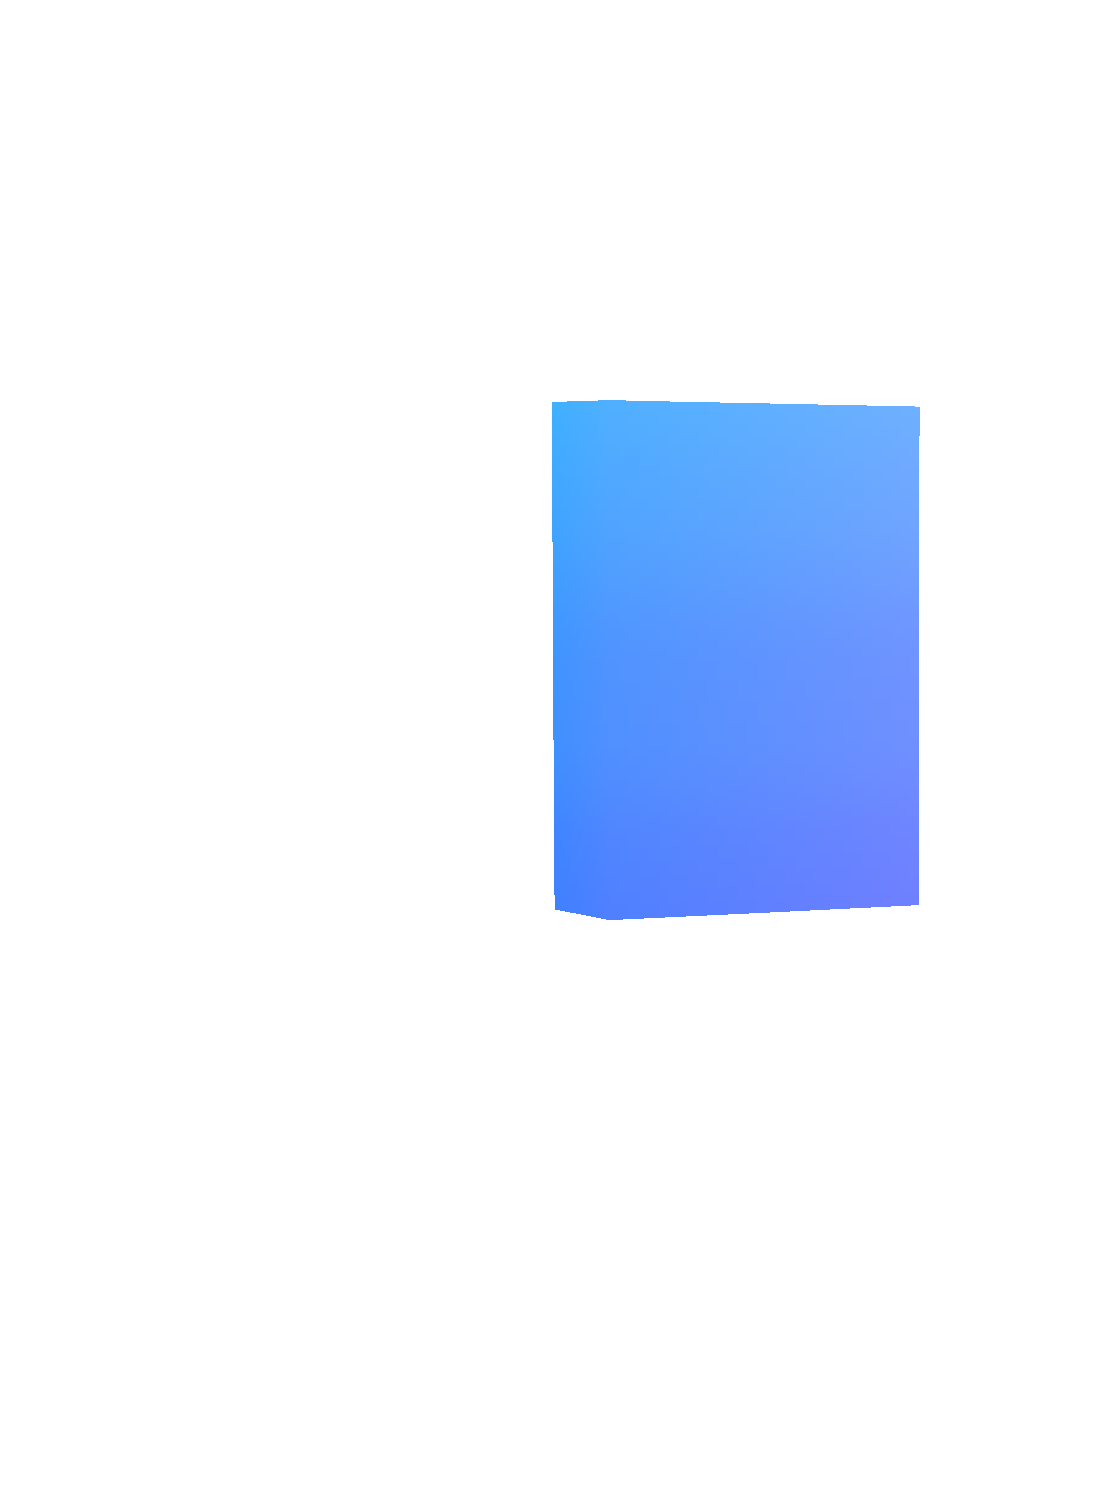
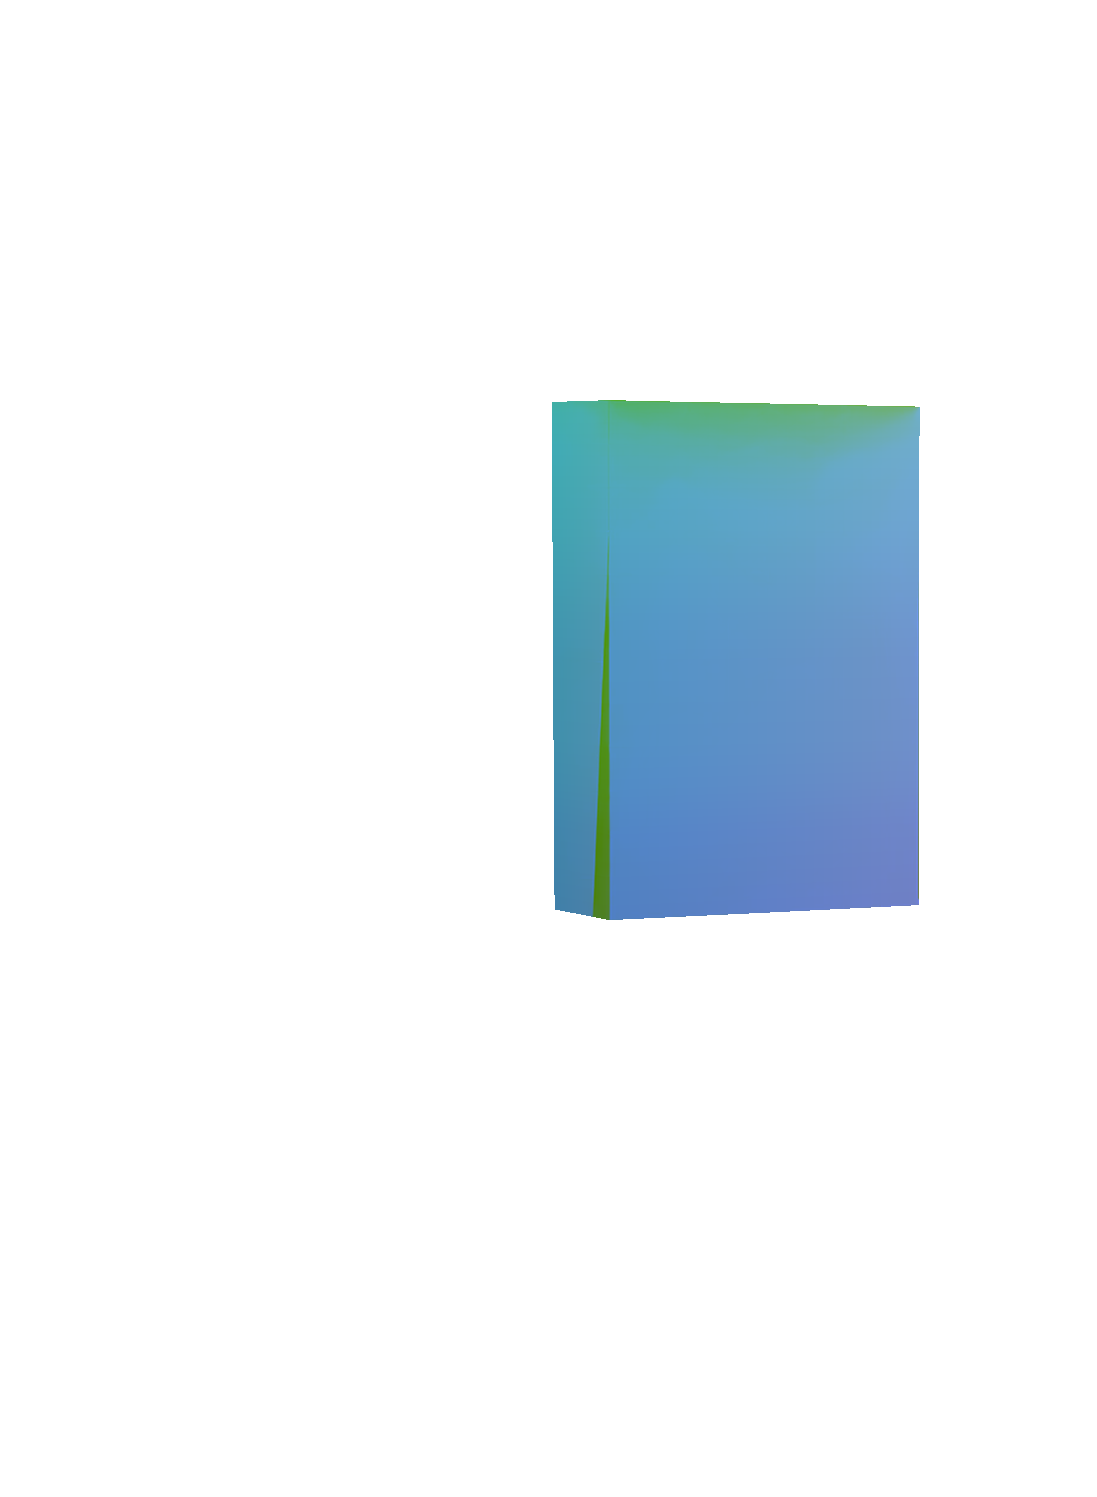
pack lighting into uv textures to improve loading times

Changed region(s): [[0.4959, 0.2458, 0.8368, 0.6146]]

diff --git a/src/lib.rs b/src/lib.rs
@@ -10,16 +10,6 @@ pub mod modern_skin;
 
 /// Creates a Smash Ultimate Minecraft Steve inspired render from the given Minecraft skin texture.
 pub fn create_render(skin_texture: &RgbaImage) -> RgbaImage {
-    let load_rgba_u8 = |buffer| image::load_from_memory(buffer).unwrap().into_rgba();
-
-    let lighting = load_rgba_u8(include_bytes!("../images/lighting/lighting.png"));
-    let lighting_leg_l2 = load_rgba_u8(include_bytes!("../images/lighting/lighting_leg_l2.png"));
-    let lighting_leg_r2 = load_rgba_u8(include_bytes!("../images/lighting/lighting_leg_r2.png"));
-    let lighting_arm_l2 = load_rgba_u8(include_bytes!("../images/lighting/lighting_arm_l2.png"));
-    let lighting_arm_r2 = load_rgba_u8(include_bytes!("../images/lighting/lighting_arm_r2.png"));
-    let lighting_chest2 = load_rgba_u8(include_bytes!("../images/lighting/lighting_chest2.png"));
-    let lighting_head2 = load_rgba_u8(include_bytes!("../images/lighting/lighting_head2.png"));
-
     // At least 16 bit precision is required for the texture sampling to look decent.
     let load_rgba_u16 = |buffer| match image::load_from_memory(buffer).unwrap() {
         DynamicImage::ImageRgba16(image_buffer) => image_buffer,
@@ -42,17 +32,17 @@ pub fn create_render(skin_texture: &RgbaImage) -> RgbaImage {
 
     // Alpha blending relies on having the correct color already present in the render buffer.
     // Steve has simple geometry, so blend layers from back to front rather than using a depth map.
-    blend_layer_with_base(&mut output, &leg_rl_uvs, skin_texture, &lighting);
-    blend_layer_with_base(&mut output, &arm_l_uvs, skin_texture, &lighting);
-    blend_layer_with_base(&mut output, &head_uvs, skin_texture, &lighting);
-    blend_layer_with_base(&mut output, &chest_uvs, skin_texture, &lighting);
-    blend_layer_with_base(&mut output, &arm_l_uvs2, skin_texture, &lighting_arm_l2);
-    blend_layer_with_base(&mut output, &chest_uvs2, skin_texture, &lighting_chest2);
-    blend_layer_with_base(&mut output, &head_uvs2, skin_texture, &lighting_head2);
-    blend_layer_with_base(&mut output, &leg_l_uvs2, skin_texture, &lighting_leg_l2);
-    blend_layer_with_base(&mut output, &leg_r_uvs2, skin_texture, &lighting_leg_r2);
-    blend_layer_with_base(&mut output, &arm_r_uvs, skin_texture, &lighting);
-    blend_layer_with_base(&mut output, &arm_r_uvs2, skin_texture, &lighting_arm_r2);
+    blend_layer_with_base(&mut output, &leg_rl_uvs, skin_texture);
+    blend_layer_with_base(&mut output, &arm_l_uvs, skin_texture);
+    blend_layer_with_base(&mut output, &head_uvs, skin_texture);
+    blend_layer_with_base(&mut output, &chest_uvs, skin_texture);
+    blend_layer_with_base(&mut output, &arm_l_uvs2, skin_texture);
+    blend_layer_with_base(&mut output, &chest_uvs2, skin_texture);
+    blend_layer_with_base(&mut output, &head_uvs2, skin_texture);
+    blend_layer_with_base(&mut output, &leg_l_uvs2, skin_texture);
+    blend_layer_with_base(&mut output, &leg_r_uvs2, skin_texture);
+    blend_layer_with_base(&mut output, &arm_r_uvs, skin_texture);
+    blend_layer_with_base(&mut output, &arm_r_uvs2, skin_texture);
 
     output
 }
@@ -102,36 +92,31 @@ pub fn color_correct(color: &Rgba<u8>) -> Rgba<u8> {
 
 fn blend_layer_with_base(
     base: &mut RgbaImage,
-    layer_uvs: &ImageBuffer<Rgba<u16>, Vec<u16>>,
+    layer_uvs_lighting: &ImageBuffer<Rgba<u16>, Vec<u16>>,
     texture: &RgbaImage,
-    lighting: &RgbaImage,
 ) {
     for x in 0..base.width() {
         for y in 0..base.height() {
-            let (current_r, current_g, current_b, current_alpha) =
-                normalize_rgba_u8(base.get_pixel(x, y));
-
             // Skip pixels outside the masked region to improve performance.
-            let uv_rgba = layer_uvs.get_pixel(x, y);
+            let uv_rgba = layer_uvs_lighting.get_pixel(x, y);
             if uv_rgba[3] == 0u16 {
                 continue;
             }
 
             // Skip fully transparent sampled texels to improve performance.
-            let (u, v, _, uv_alpha) = normalize_rgba_u16(uv_rgba);
+            let (u, v, lighting, uv_alpha) = normalize_rgba_u16(uv_rgba);
             let layer_color = sample_texture(texture, u, v);
             if layer_color[3] == 0u8 {
                 continue;
             }
 
             let (layer_r, layer_g, layer_b, layer_alpha) = normalize_rgba_u8(layer_color);
-            let (light_r, light_g, light_b, _) = normalize_rgba_u8(lighting.get_pixel(x, y));
 
             // The lighting pass is scaled down by a factor of 0.25 to fit into 8 bits per channel.
             // Multiplying by 4 is a bit too bright, so use 2 instead.
             let apply_lighting = |color: f32, light: f32| color * light * 2f32;
 
-            let get_result = |base: f32, layer: f32, lighting: f32| {
+            let get_result = |base: f32, layer: f32| {
                 let lighting_result = apply_lighting(layer, lighting);
 
                 // Skip the costly floating point gamma correction and blending if possible.
@@ -142,11 +127,13 @@ fn blend_layer_with_base(
                 }
             };
 
+            let (base_r, base_g, base_b, base_a) = normalize_rgba_u8(base.get_pixel(x, y));
+
             // Use the uv map alpha as well to prevent blending outside the masked region.
-            let r = get_result(current_r, layer_r, light_r);
-            let g = get_result(current_g, layer_g, light_g);
-            let b = get_result(current_b, layer_b, light_b);
-            let alpha_final = current_alpha + layer_alpha * uv_alpha;
+            let r = get_result(base_r, layer_r);
+            let g = get_result(base_g, layer_g);
+            let b = get_result(base_b, layer_b);
+            let alpha_final = base_a + layer_alpha * uv_alpha;
 
             *base.get_pixel_mut(x, y) = Rgba([
                 to_u8_clamped(r),
